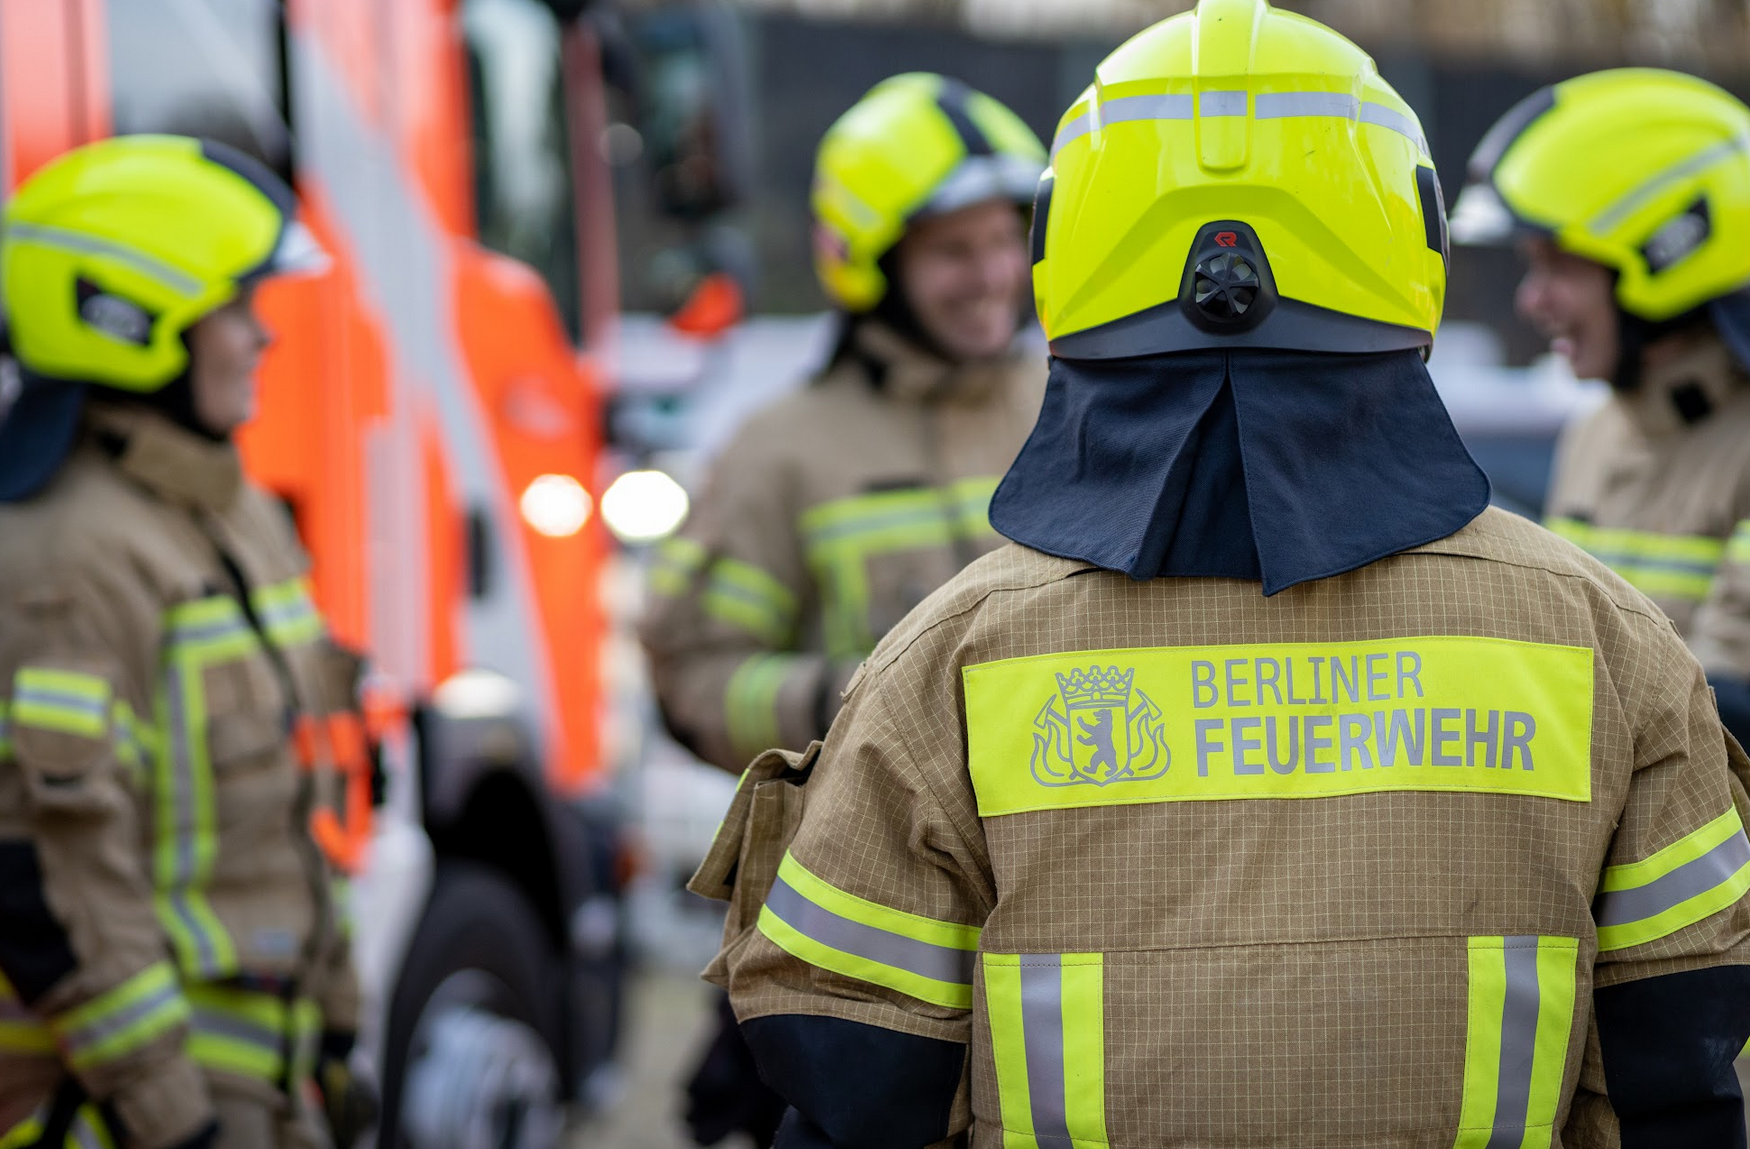
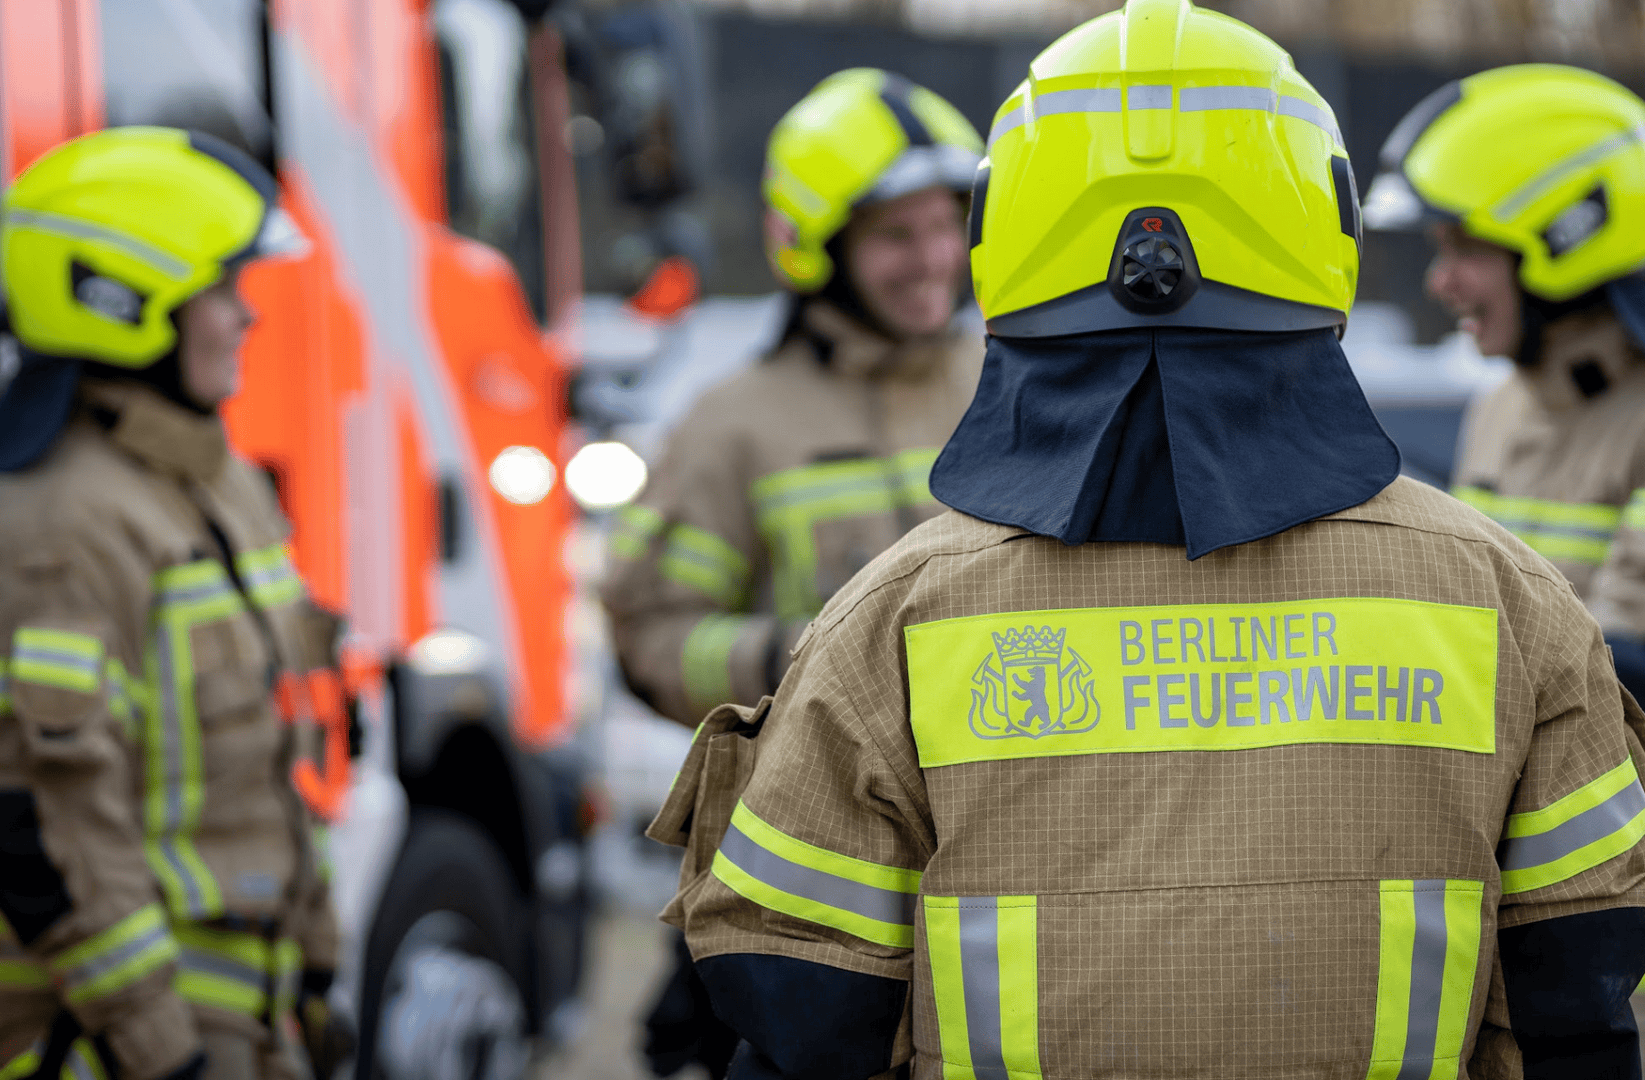
deleted old pictures and downscaled a few. added new pictures for the rooms.

diff --git a/development/helm-sucht-kopf/src/app/components/homepage/SliderCareerOpportunities.tsx b/development/helm-sucht-kopf/src/app/components/homepage/SliderCareerOpportunities.tsx
@@ -10,7 +10,7 @@ export default function SliderCareerOpportunities() {
       subtitle: "Ausbildung",
       description:
         "Du rettest Leben, versorgst Menschen, begleitest Patienten ins Krankenhaus und sorgst für professionelle Unterstützung.",
-      image: "/assets/home/Notsan-2.jpg",
+      image: "/assets/home/Notsan.jpg",
       link: "https://www.berliner-feuerwehr.de/karriere/ausbildung-zur-notfallsanitaeterin-oder-zum-notfallsanitaeter/",
     },
     {

diff --git a/development/helm-sucht-kopf/src/app/components/homepage/Hero.tsx b/development/helm-sucht-kopf/src/app/components/homepage/Hero.tsx
@@ -5,7 +5,7 @@ export default function Hero() {
     <div>
       <section className="homepage-hero">
         <img
-          src="/assets/home/hero-4.jpg"
+          src="/assets/home/hero.jpg"
           alt="Hero Background"
           className="hero-background-image"
         />
